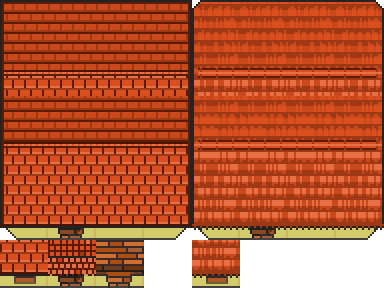
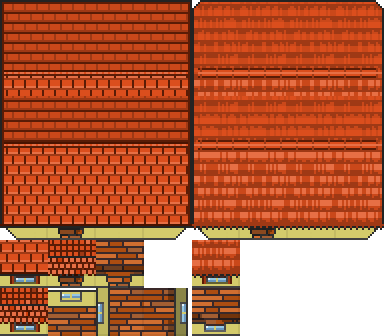
Draw windows as glazed windows instead of openings
The window in the facade of tiles.png is a dark slot, and the interior
walls have notches that show the grass. Both are now drawn as windows:
outline, frame in the wall colour, blue glass with a glint and a bar,
and shutters outside that take the roof colour. Glass is left untouched
when house styles are recoloured.

Side windows are now random per row instead of on every middle row.

diff --git a/tools/gen_house_tiles.py b/tools/gen_house_tiles.py
@@ -14,6 +14,8 @@ band and door) is copied from the hipped roof of tiles.png.
   row 5:   facade with a window for the gable (col 0) and the thatch (col 4),
            and the door copied from the cottage for the hipped roof (col 1)
            and for the interior (col 2)
+  row 6:   glazed windows: hipped facade (col 0), interior back, left,
+           right and front walls (cols 1-4). In tiles.png they are openings.
 
 A house 3 rows deep uses rows 0, 1, 4; 4 rows deep uses rows 0, 2, 3, 4.
 The large house in tiles.png only has a window in its facade: the door,
@@ -50,6 +52,15 @@ R_OUTLINE = (35, 35, 35, 255)
 
 GRASS = {(112, 200, 64), (103, 185, 59)}
 
+# glass stays blue whatever the house style, the frame takes the wall colour
+GLASS = (150, 200, 228, 255)
+GLASS_DARK = (104, 150, 190, 255)
+GLASS_LIGHT = (226, 242, 250, 255)
+FRAME = (212, 203, 107, 255)  # wall beige
+WALL_LINE = (47, 47, 47, 255)
+SHUTTER = R_DARK
+SHUTTER_EDGE = R_DARKER
+
 
 def load_tile(col, row):
     """A tile of tiles.png at art resolution, grass made transparent."""
@@ -70,6 +81,52 @@ def paste_region(dst, src, x0, y0, x1, y1):
             dst.set(x, y, src.get(x, y))
 
 
+def glaze(tile, x0, y0, x1, y1, vertical=False):
+    """Fill the opening (inclusive bounds) with framed glass."""
+    for y in range(y0, y1 + 1):
+        for x in range(x0, x1 + 1):
+            tile.set(x, y, GLASS_DARK if (y == y1 and not vertical) or (x == x1 and vertical) else GLASS)
+    # bar across the middle and a glint in the top-left pane
+    if vertical:
+        for x in range(x0, x1 + 1):
+            tile.set(x, (y0 + y1) // 2, FRAME)
+    else:
+        for y in range(y0, y1 + 1):
+            tile.set((x0 + x1) // 2, y, FRAME)
+    tile.set(x0, y0, GLASS_LIGHT)
+    return tile
+
+
+def facade_window(tile):
+    """The original slot in the facade becomes a window with shutters."""
+    glaze(tile, 8, 19, 16, 20)
+    for y in range(18, 22):
+        for x, col in ((5, SHUTTER_EDGE), (6, SHUTTER), (18, SHUTTER), (19, SHUTTER_EDGE)):
+            tile.set(x, y, col)
+    return tile
+
+
+def room_windows():
+    """Interior walls: the notches of the roofless house become windows."""
+    back = load_tile(2, 1)
+    for x in range(7, 16):
+        back.set(x, 1, WALL_LINE)
+        back.set(x, 2, FRAME)
+        back.set(x, 5, FRAME)
+    glaze(back, 7, 3, 15, 4)
+    left = load_tile(1, 2)
+    for y in range(8, 17):
+        left.set(0, y, WALL_LINE)
+    glaze(left, 1, 8, 2, 16, vertical=True)
+    right = load_tile(4, 2)
+    for y in range(8, 17):
+        right.set(21, y, WALL_LINE)
+    glaze(right, 19, 8, 20, 16, vertical=True)
+    front = load_tile(2, 4)
+    glaze(front, 7, 19, 15, 20)
+    return [back, left, right, front]
+
+
 def with_door(base, door_tile, y0):
     """Replace the middle of a facade with the cottage door."""
     out = base.crop(0, 0, ART, ART)
@@ -86,7 +143,7 @@ def load_facade():
         c = Canvas(ART, ART)
         paste_region(c, tile, 0, 17, ART, ART)
         out.append(c)
-    window = out[1]
+    window = facade_window(out[1])
     out[1] = with_door(out[2], load_tile(14, 2), 17)
     return out, window
 
@@ -399,7 +456,7 @@ def save(canvas, name):
 
 def main():
     facade, window = load_facade()
-    roofs = Canvas(8 * ART, 6 * ART)
+    roofs = Canvas(8 * ART, 7 * ART)
     for shape, draw in enumerate((gable, thatch)):
         for (col, row), tile in slice_roof(draw, facade).items():
             roofs.blit(tile, (shape * 4 + col) * ART, row * ART, transparent=False)
@@ -408,6 +465,9 @@ def main():
     # doors for the hipped roof and the interior of tiles.png
     roofs.blit(with_door(load_tile(3, 9), load_tile(14, 2), 17), 1 * ART, 5 * ART, transparent=False)
     roofs.blit(with_door(load_tile(3, 4), load_tile(11, 2), 16), 2 * ART, 5 * ART, transparent=False)
+    roofs.blit(facade_window(load_tile(2, 9)), 0, 6 * ART, transparent=False)
+    for i, tile in enumerate(room_windows()):
+        roofs.blit(tile, (1 + i) * ART, 6 * ART, transparent=False)
     save(roofs, "roofs.png")
 
     furniture = Canvas(6 * ART, 3 * ART)

diff --git a/src/worldgen.c b/src/worldgen.c
@@ -454,9 +454,15 @@ static HousePlan plan_house(Gen *g, const Village *v) {
   return p;
 }
 
-// Which piece of the large house set goes in cell (c, r). backWindow and
-// frontWindow tell whether that column has windows in the back or front wall.
-static int large_piece(const HousePlan *p, int c, int r, bool room, bool backWindow, bool frontWindow) {
+// Which windows a large house has: per column in the back and front walls,
+// per row in the side walls.
+typedef struct Windows {
+  bool back[6], front[6], side[4];
+} Windows;
+
+// Which piece of the large house set goes in cell (c, r).
+static int large_piece(const HousePlan *p, const Windows *win, int c, int r, bool room) {
+  bool backWindow = win->back[c], frontWindow = win->front[c];
   int last = p->w - 1, bottom = p->h - 1;
   int col = c == 0 ? 0 : (c == last ? 3 : 2);
   bool middle = col == 2;
@@ -464,7 +470,8 @@ static int large_piece(const HousePlan *p, int c, int r, bool room, bool backWin
   bool window = r == bottom && middle && frontWindow && !door;
   if (!room && p->shape == 0) {
     if (door) return PIECE_ROOF_DOOR;
-    return PIECE_ROOF(window ? 1 : col, r == 0 ? 0 : (r == bottom ? 2 : 1));
+    if (window) return PIECE_ROOF_WINDOW;
+    return PIECE_ROOF(col, r == 0 ? 0 : (r == bottom ? 2 : 1));
   }
   if (!room) {
     // the ridge runs along the middle: inside row 1 for 3 deep houses,
@@ -474,11 +481,14 @@ static int large_piece(const HousePlan *p, int c, int r, bool room, bool backWin
     int row = p->h == 3 ? ROWS3[r] : ROWS4[r];
     return PIECE_SHAPED(p->shape - 1, door ? 1 : col, row);
   }
-  // inside: window notches in the walls, side windows every other row
+  // inside: windows in the walls, matching the facade
   if (door) return PIECE_ROOM_DOOR;
-  int row = r == 0 ? 0 : (r == bottom ? 3 : (r % 2 ? 1 : 2));
-  bool notch = middle && ((r == 0 && backWindow) || window);
-  return PIECE_ROOM(notch ? 1 : col, row);
+  if (window) return PIECE_ROOM_WINDOW_FRONT;
+  if (r == 0 && middle && backWindow) return PIECE_ROOM_WINDOW_BACK;
+  bool side = r > 0 && r < bottom && !middle;
+  if (side && win->side[r]) return c == 0 ? PIECE_ROOM_WINDOW_LEFT : PIECE_ROOM_WINDOW_RIGHT;
+  // row 2 of the original interior is the plain one (row 1 has openings)
+  return PIECE_ROOM(col, r == 0 ? 0 : (r == bottom ? 3 : 2));
 }
 
 static bool try_house(Gen *g, Village *v, int villageIndex) {
@@ -549,12 +559,19 @@ static bool try_house(Gen *g, Village *v, int villageIndex) {
     house->chimneyY = oy - 6;
   }
 
+  Windows win;
+  for (int k = 0; k < 6; k++) {
+    win.back[k] = rndf(g) < 0.4f;
+    win.front[k] = rndf(g) < 0.5f;
+  }
+  for (int k = 0; k < 4; k++) {
+    win.side[k] = rndf(g) < 0.5f;
+  }
   for (int c = 0; c < p.w; c++) {
-    bool backWindow = rndf(g) < 0.4f, frontWindow = rndf(g) < 0.5f;
     for (int r = 0; r < p.h; r++) {
       int i = (hy + r) * g->w + hx + c;
       int outside = p.small ? (p.roof ? PIECE_SMALL_ROOF(c, r) : PIECE_SMALL_ROOM(c, r))
-                            : large_piece(&p, c, r, !p.roof, backWindow, frontWindow);
+                            : large_piece(&p, &win, c, r, !p.roof);
       world->top[i] = (Uint16)GID_HOUSE(p.style, outside);
       world->houseAt[i] = (Sint16)index;
       if (hy + r == stepRow) {
@@ -562,7 +579,7 @@ static bool try_house(Gen *g, Village *v, int villageIndex) {
       }
       world->kind[i] = CELL_HOUSE;
       if (p.roof) {
-        int inside = p.small ? PIECE_SMALL_ROOM(c, r) : large_piece(&p, c, r, true, backWindow, frontWindow);
+        int inside = p.small ? PIECE_SMALL_ROOM(c, r) : large_piece(&p, &win, c, r, true);
         world->interior[i] = (Uint16)GID_HOUSE(p.style, inside);
       }
     }

diff --git a/src/tiles.h b/src/tiles.h
@@ -26,7 +26,7 @@
 // Pieces of a house style. Large houses are assembled from the corners,
 // edges and middles of a 4-wide piece set; small houses are used as is.
 #define NUM_HOUSE_STYLES 12
-#define HOUSE_PIECES 90
+#define HOUSE_PIECES 95
 #define PIECE_ROOF(c, r) ((r) * 4 + (c))              // large roof, 4 x 3
 #define PIECE_SMALL_ROOF(c, r) (12 + (r) * 3 + (c))   // small roof, 3 x 3, row 2 is the door step
 #define PIECE_ROOM(c, r) (21 + (r) * 4 + (c))         // large interior, 4 x 4
@@ -39,6 +39,13 @@
 #define PIECE_SHAPED_WINDOW(shape) (86 + (shape))
 #define PIECE_ROOF_DOOR 88
 #define PIECE_ROOM_DOOR 89
+// glazed windows: the hipped facade, then the interior back, left, right
+// and front walls (tiles.png only has openings)
+#define PIECE_ROOF_WINDOW 90
+#define PIECE_ROOM_WINDOW_BACK 91
+#define PIECE_ROOM_WINDOW_LEFT 92
+#define PIECE_ROOM_WINDOW_RIGHT 93
+#define PIECE_ROOM_WINDOW_FRONT 94
 #define GID_HOUSE(style, piece) (GID_HOUSE_BASE + (style) * HOUSE_PIECES + (piece))
 #define GID_IS_HOUSE(gid) ((gid) >= GID_HOUSE_BASE && (gid) < GID_HOUSE_BASE + NUM_HOUSE_STYLES * HOUSE_PIECES)
 #define HOUSE_PIECE(gid) (((gid) - GID_HOUSE_BASE) % HOUSE_PIECES)
@@ -46,7 +53,8 @@
 #define GID_IS_FLAT_HOUSE(gid)                                               \
   (GID_IS_HOUSE(gid) && ((HOUSE_PIECE(gid) >= PIECE_SMALL_ROOF(0, 2) &&      \
                           HOUSE_PIECE(gid) < PIECE_SHAPED(0, 0, 0)) ||        \
-                         HOUSE_PIECE(gid) == PIECE_ROOM_DOOR))
+                         HOUSE_PIECE(gid) == PIECE_ROOM_DOOR ||               \
+                         HOUSE_PIECE(gid) >= PIECE_ROOM_WINDOW_BACK))
 // the landing in front of a door
 #define PIECE_LANDING PIECE_SMALL_ROOF(1, 2)
 

diff --git a/src/atlas.c b/src/atlas.c
@@ -117,7 +117,7 @@ static void apply_tint(Uint8 *p, Tint t) {
 }
 
 // Copy a tile, recolouring the yellow walls with `wall` and the red/brown
-// roof or floor with `other`. Outlines and greys are kept.
+// roof or floor with `other`. Outlines, greys and window glass are kept.
 static void tint_tile(SDL_Surface *dst, int dx, int dy, const SDL_Surface *src, int sx, int sy, Tint wall, Tint other) {
   for (int y = 0; y < TILE_SIZE; y++) {
     const Uint8 *in = (const Uint8 *)src->pixels + (sy + y) * src->pitch + sx * 4;
@@ -126,7 +126,7 @@ static void tint_tile(SDL_Surface *dst, int dx, int dy, const SDL_Surface *src, 
       SDL_memcpy(out, in, 4);
       float h, s, v;
       rgb_to_hsv(in, &h, &s, &v);
-      if (in[3] == 0 || v < 0.26f || s < 0.15f) {
+      if (in[3] == 0 || v < 0.26f || s < 0.15f || (h > 170 && h < 260)) {
         continue;
       }
       apply_tint(out, h >= 40 && h <= 70 ? wall : other);
@@ -166,7 +166,9 @@ static bool build_houses(Atlas *atlas, Engine *engine) {
           if (piece == PIECE_SHAPED_WINDOW(0)) col = 0, other = st->roof;
           else if (piece == PIECE_SHAPED_WINDOW(1)) col = 4, other = st->thatch;
           else if (piece == PIECE_ROOF_DOOR) col = 1, other = st->roof;
-          else col = 2;
+          else if (piece == PIECE_ROOM_DOOR) col = 2;
+          else if (piece == PIECE_ROOF_WINDOW) row = 6, col = 0, other = st->roof;
+          else row = 6, col = 1 + piece - PIECE_ROOM_WINDOW_BACK;
         }
         tint_tile(sheet, piece * TILE_SIZE, y, from, col * TILE_SIZE, row * TILE_SIZE, st->wall, other);
       }
